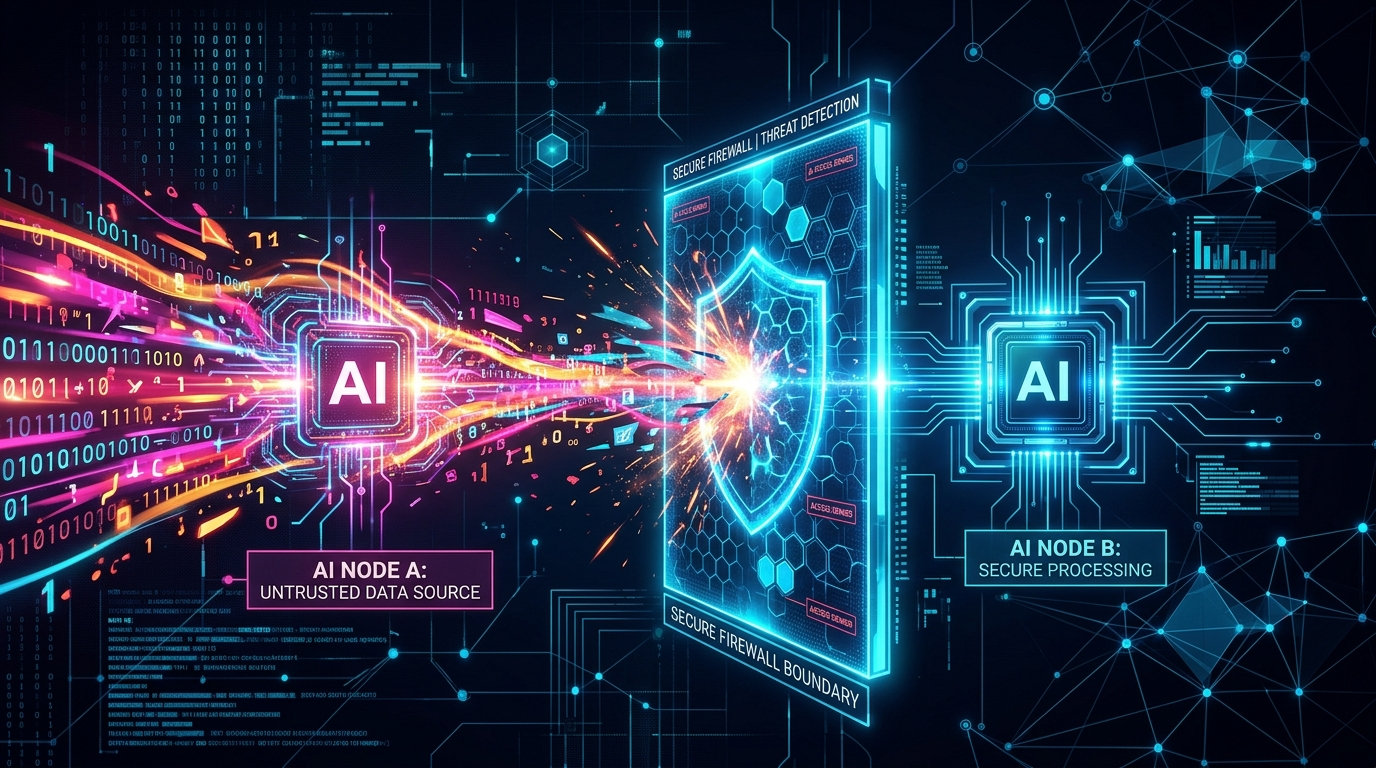
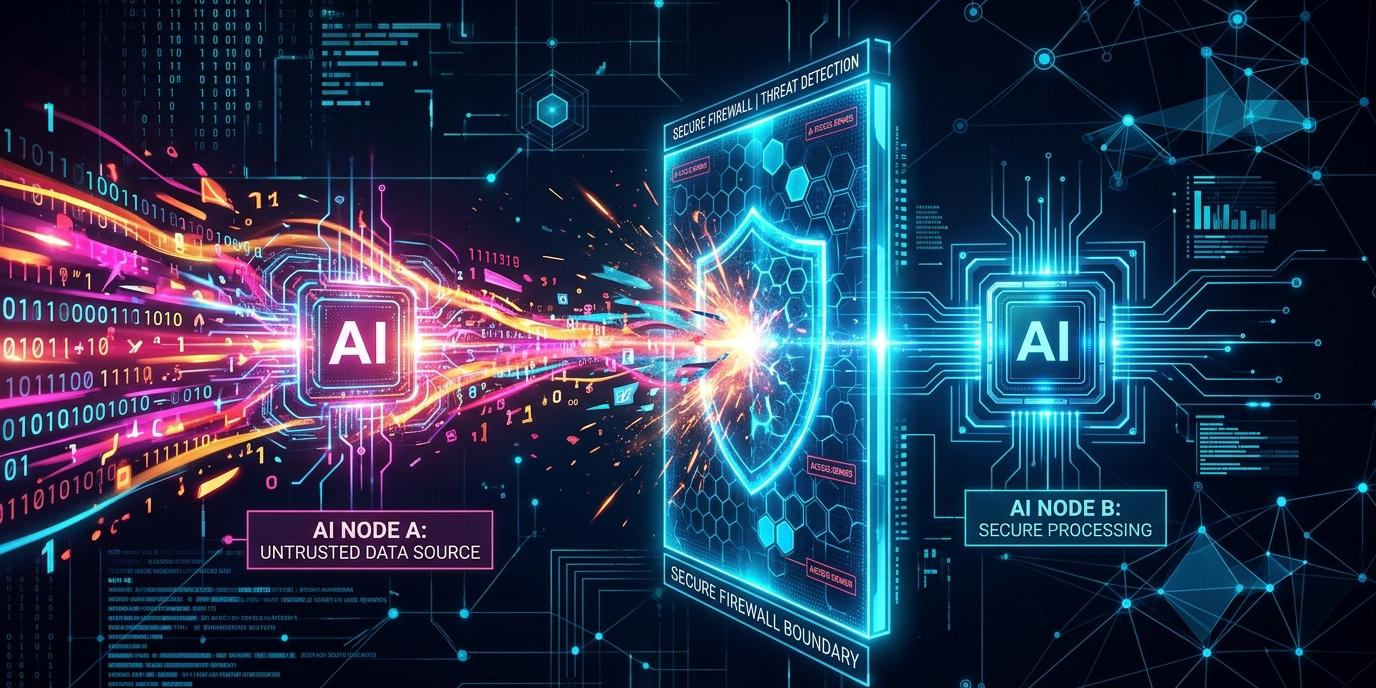
add new images and update heroImage references in blog posts

diff --git a/blog/src/content/blog/ai-aikido.md b/blog/src/content/blog/ai-aikido.md
@@ -2,7 +2,7 @@
 title: 'AI Aikido: Neutralizing Prompt Injection with Determinism'
 description: "How to use an attacker's own momentum against them by replacing LLM filters with deterministic tables."
 pubDate: 'Jun 18 2026'
-heroImage: '../../assets/blog-placeholder-2.jpg'
+heroImage: '../../assets/ai-aikido.jpg'
 ---
 
 Prompt injection is the defining vulnerability of the LLM era. The traditional defense mechanism adopted by most enterprises is to place another LLM in front of the execution layer to ask: *"Is this prompt malicious?"*

diff --git a/blog/src/content/blog/running-claude-safely.md b/blog/src/content/blog/running-claude-safely.md
@@ -2,7 +2,7 @@
 title: 'Running Claude Code Safely: A Sandbox Setup Guide'
 description: 'A practical guide to wrapping existing CLI agents with deterministic physics.'
 pubDate: 'Jun 16 2026'
-heroImage: '../../assets/blog-placeholder-4.jpg'
+heroImage: '../../assets/running-claude-safely.jpg'
 ---
 
 Claude Code, Aider, and Codex are incredible developer tools. They can refactor entire codebases, write tests, and debug complex race conditions. But out of the box, they run with **Ambient Authority**. They inherit your SSH keys, your production AWS credentials, and root-level write access to your hard drive. 

diff --git a/blog/src/content/blog/the-zombieagent-threat.md b/blog/src/content/blog/the-zombieagent-threat.md
@@ -2,7 +2,7 @@
 title: "The ZombieAgent Threat: Why Your AI's Memory is a Ticking Time Bomb"
 description: "Exploring cross-session taint tracking and why wiping the context window isn't enough to secure an agent."
 pubDate: 'Jun 17 2026'
-heroImage: '../../assets/blog-placeholder-3.jpg'
+heroImage: '../../assets/zombieagent-threat.jpg'
 ---
 
 When a local AI agent reads a poisoned web page, that data enters its context window. Most developers assume that once the session ends and the context window is cleared, the threat is gone. "We start fresh every time," the logic goes.

diff --git a/blog/src/content/blog/why-deny-is-dangerous.md b/blog/src/content/blog/why-deny-is-dangerous.md
@@ -2,7 +2,7 @@
 title: 'Why "Deny" is Dangerous: The Case for Absent Tools in AI'
 description: 'Exploring why blocking an AI agent is inherently less secure than making the capability entirely absent.'
 pubDate: 'Jun 19 2026'
-heroImage: '../../assets/blog-placeholder-1.jpg'
+heroImage: '../../assets/why-deny-is-dangerous.jpg'
 ---
 
 Most developers try to secure their AI agents by writing rules in a system prompt or a basic proxy layer like: `"DENY any request to drop the database."`